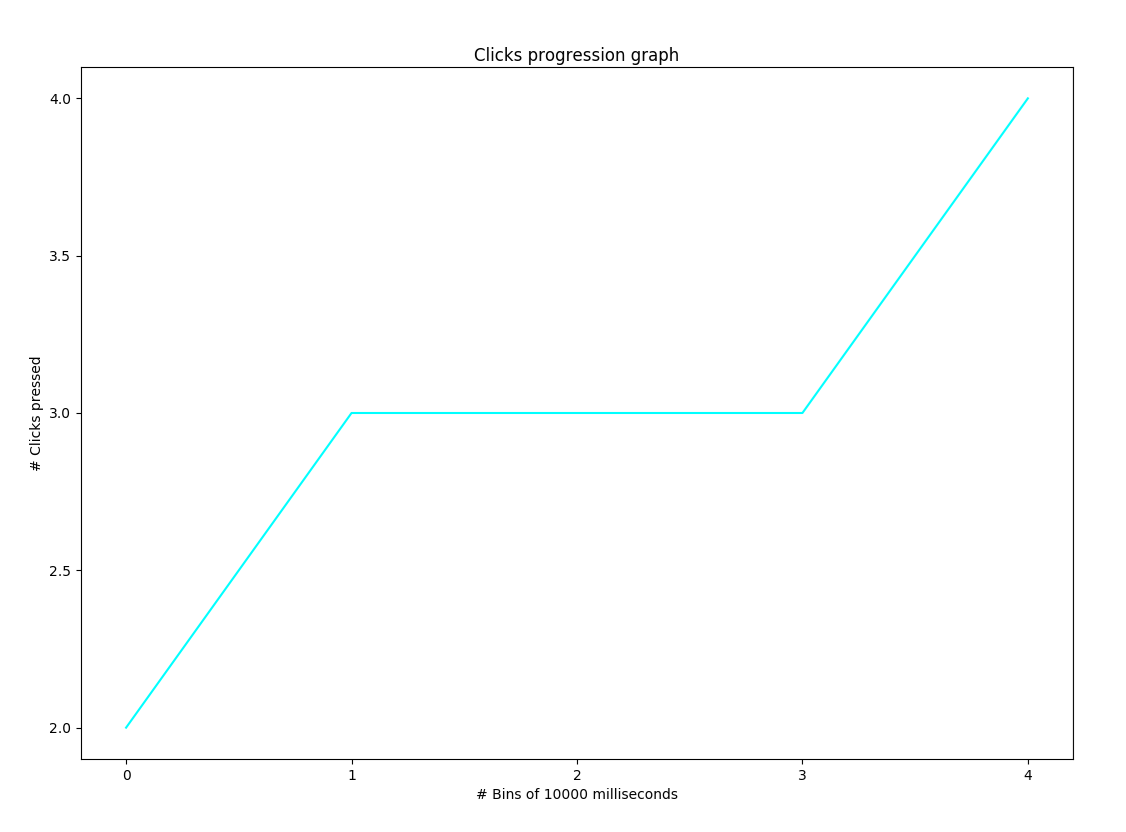
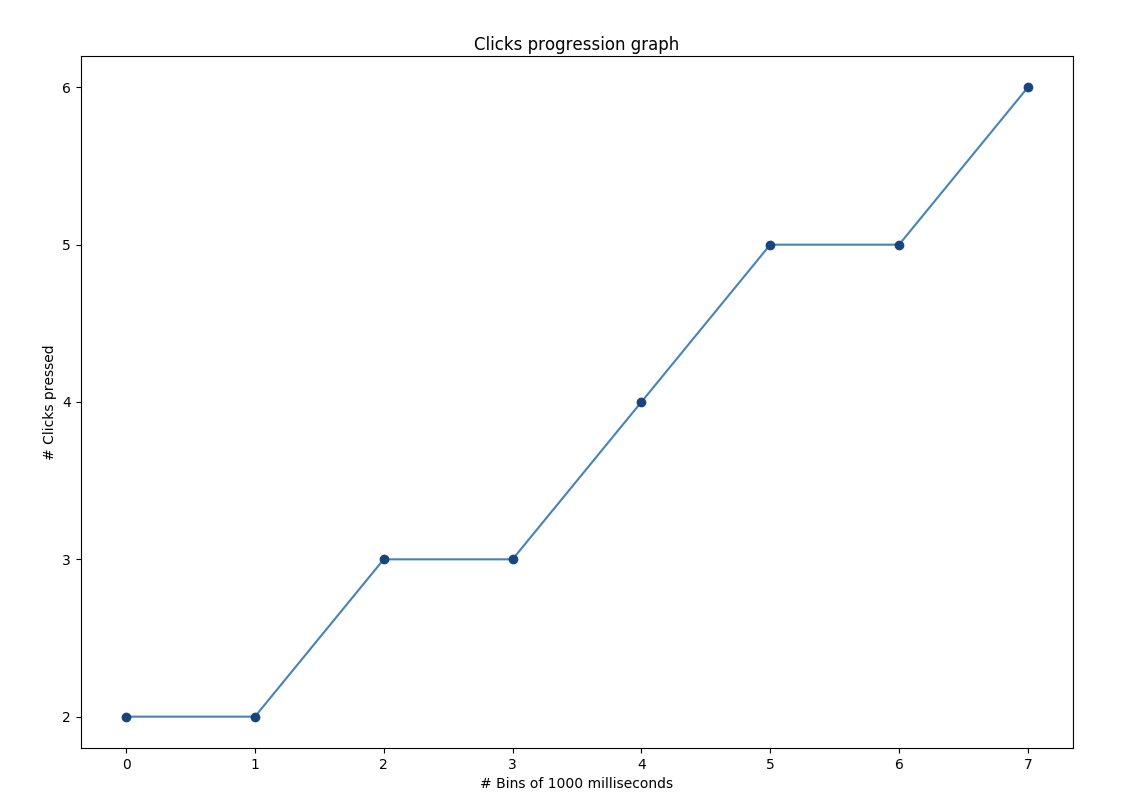
Fixed issue with progression graphs

diff --git a/loginfo.py b/loginfo.py
@@ -393,24 +393,26 @@ class LogInfo:
         while i < len(self.keys_parser.keys):
             d, t, pn, user, wid, title, ms, key_id, msg, x, y = self.keys_parser.keys[i]
             ms = int(ms) - start  # force to start from ms 0
-            while i < len(self.keys_parser.keys) and current_bin_size + ms <= last_bin_size:
-                if msg == KDOWN:
+            if current_bin_size + ms <= last_bin_size:
+                if "down" in msg:
                     current_bin_size += ms
                     current_keystrokes += 1
-                i += 1
-                if i < len(self.keys_parser.keys):
-                    d, t, pn, user, wid, title, ms, key_id, msg, x, y = self.keys_parser.keys[i]
-                    ms = int(ms) - start  # force to start from ms 0
-            current_bin_size = 0
-            last_bin_size *= 2
-            keystrokes[current_bin] = current_keystrokes
-            current_bin += 1
+            else:
+                current_bin_size = 0
+                if "down" in msg:
+                    current_keystrokes += 1
+                    current_bin_size += ms
+                last_bin_size *= 2
+                keystrokes[current_bin] = current_keystrokes
+                current_bin += 1
             i += 1
         fig, ax = plt.subplots(figsize=(12,8))
-        ax.plot(keystrokes.keys(), keystrokes.values(), 'r', label='Keystroke progression graph', color='Cyan')
+        ax.plot(keystrokes.keys(), keystrokes.values(), 'r', color='#4682b4')
+        ax.plot(keystrokes.keys(), keystrokes.values(), 'o', color='#19457e')
         ax.set_xlabel('# Bins of %s milliseconds' % str(bin_size * 1000))
         ax.set_ylabel('# Keystrokes')
         ax.set_title("Keystroke progression graph")
+        ax.plot()
         plt.show()
 
     def plot_clicks_progression_graph(self, bin_size):
@@ -420,27 +422,28 @@ class LogInfo:
         """
         last_bin_size = bin_size * 1000  # Convert to milliseconds
         current_bin, current_bin_size = 0, 0
-        keystrokes = defaultdict(int)
-        current_keystrokes, i = 0, 0
+        clicks = defaultdict(int)
+        current_clicks, i = 0, 0
         start = int(self.clicks_parser.clicks[0][6])  # ms
         while i < len(self.clicks_parser.clicks):
             date, time, pn, user, wid, title, ms, msg, x, y, res, img = self.clicks_parser.clicks[i]
             ms = int(ms) - start  # force to start from ms 0
-            while i < len(self.clicks_parser.clicks) and current_bin_size + ms <= last_bin_size:
+            if current_bin_size + ms <= last_bin_size:
                 if "down" in msg:
                     current_bin_size += ms
-                    current_keystrokes += 1
-                i += 1
-                if i < len(self.clicks_parser.clicks):
-                    date, time, pn, user, wid, title, ms, msg, x, y, res, img = self.clicks_parser.clicks[i]
-                    ms = int(ms) - start  # force to start from ms 0
-            current_bin_size = 0
-            last_bin_size *= 2
-            keystrokes[current_bin] = current_keystrokes
-            current_bin += 1
+                    current_clicks += 1
+            else:
+                current_bin_size = 0
+                if "down" in msg:
+                    current_clicks += 1
+                    current_bin_size += ms
+                last_bin_size *= 2
+                clicks[current_bin] = current_clicks
+                current_bin += 1
             i += 1
         fig, ax = plt.subplots(figsize=(12,8))
-        ax.plot(keystrokes.keys(), keystrokes.values(), 'r', label='Keystroke progression graph', color='Cyan')
+        ax.plot(clicks.keys(), clicks.values(), 'r', color='#4682b4')
+        ax.plot(clicks.keys(), clicks.values(), 'o', color='#19457e')
         ax.set_xlabel('# Bins of %s milliseconds' % str(bin_size * 1000))
         ax.set_ylabel('# Clicks pressed')
         ax.set_title("Clicks progression graph")

diff --git a/main.py b/main.py
@@ -51,7 +51,7 @@ for f in li.get_letter_info():
 li.print_key_summary()
 
 # Plots the keystroke progression graph.
-li.plot_keystroke_progression_graph(10)
+li.plot_keystroke_progression_graph(1)
 
 # Plots the clicks progression graph.
-li.plot_clicks_progression_graph(10)
+li.plot_clicks_progression_graph(1)
